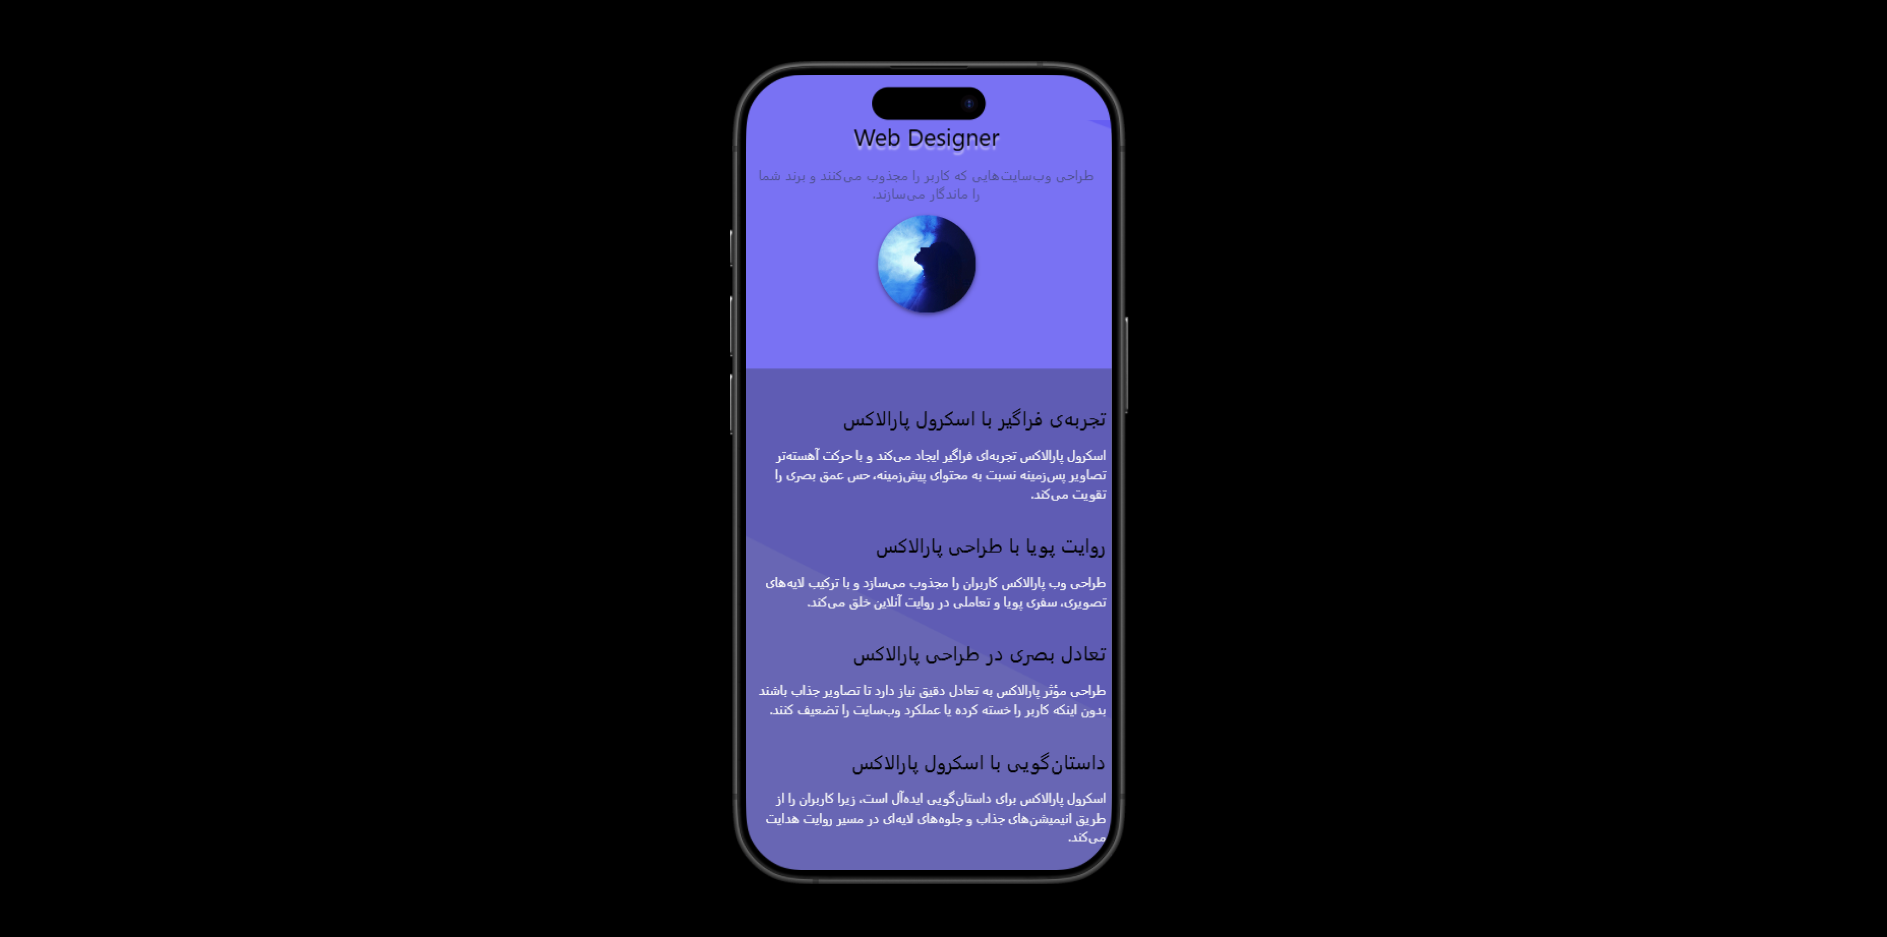
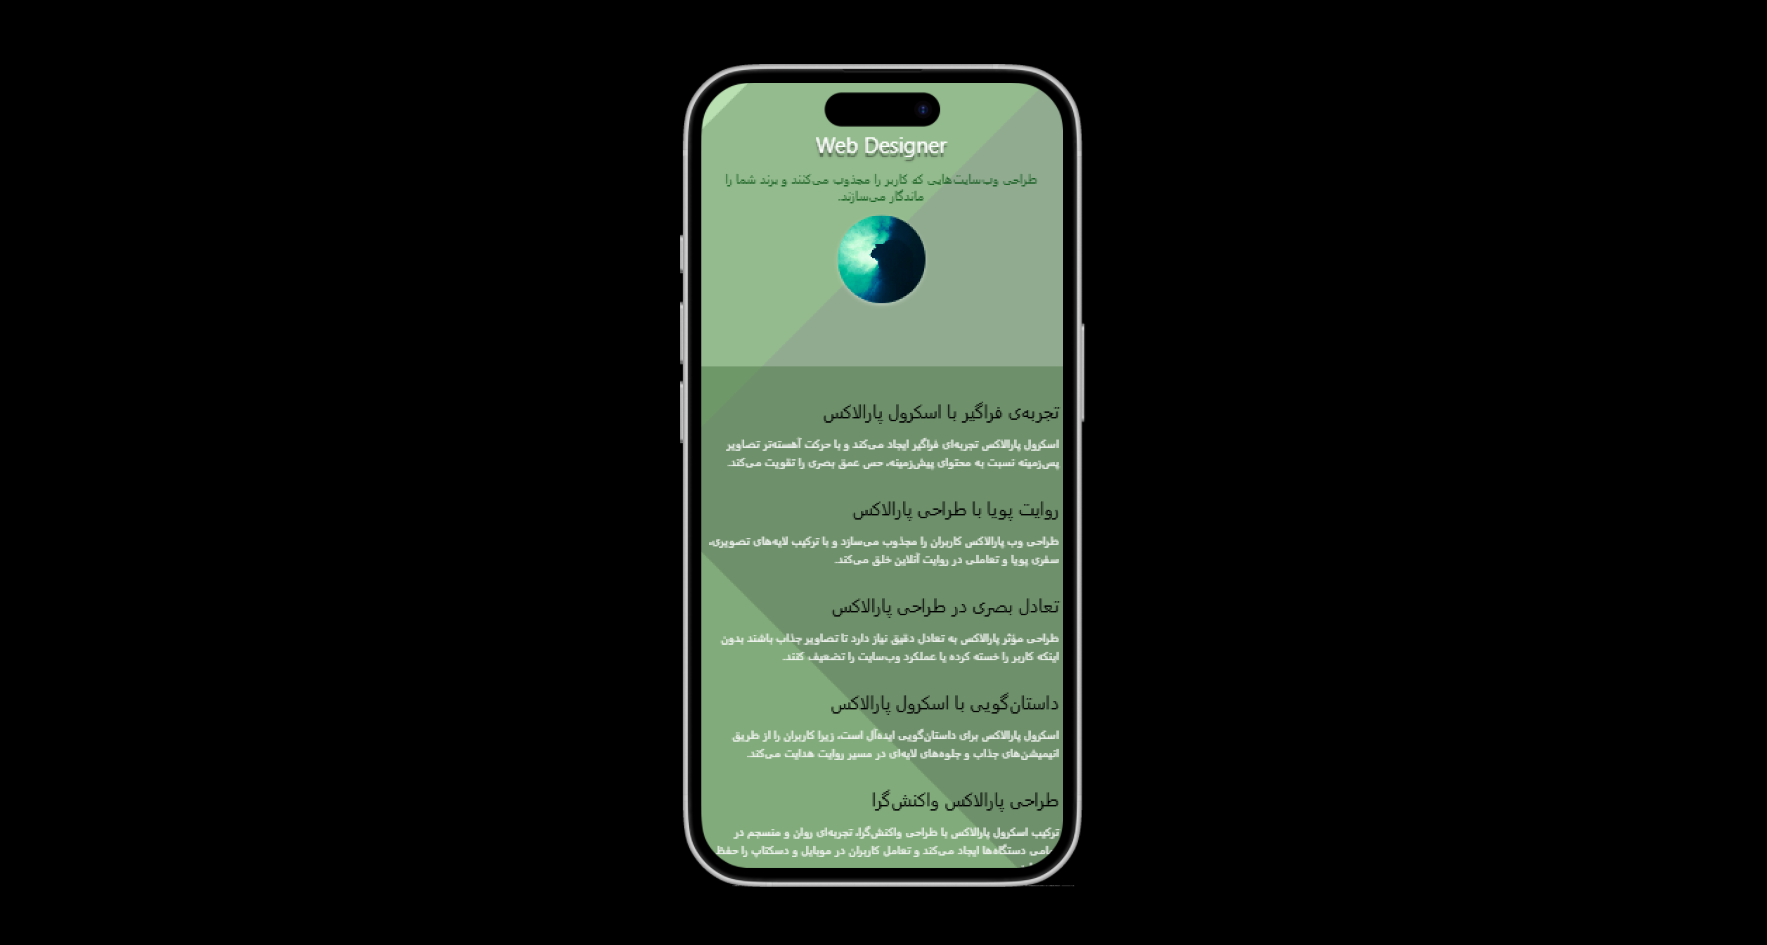
chanege phot and place for Paroller-js

Changed region(s): [[0.3735, 0.0619, 0.6225, 0.9594]]

diff --git a/index.html b/index.html
@@ -1966,58 +1966,7 @@
 
 
 
-          
-          <!-- Project  28 -->
-          <div
-            class="bg-white rounded-xl overflow-hidden shadow-lg card-hover animate-fade-in animate-delay-1"
-          >
-            <div class="h-48 overflow-hidden relative">
-              <img
-                src="پروژه ها/accordion slider/accordion slider.webp"
-                alt="navbar "
-                class="w-full h-full object-cover transition duration-500 hover:scale-110"
-              />
-              <div
-                class="absolute inset-0 bg-black opacity-0 hover:opacity-20 transition-opacity duration-300"
-              ></div>
-            </div>
-            <div class="p-6">
-              <h3 class="text-xl font-bold mb-2" id="project-1-title">
-                 تجربهای متفاوت از زیبایی و حرفهایگری در هر اسلاید. 
-              </h3>
-              <p class="text-gray-600 mb-4" id="project-1-desc">
-                  رابط کاربری روان، انتقال نرم بین اسلایدها و هماهنگی رنگها و انیمیشنها، حس یک محصول حرفهای و با کیفیت را القا میکند.
-              </p>
-              <div class="flex flex-wrap gap-2 mb-4">
-                <!-- <span class="bg-blue-100 text-blue-800 text-xs px-3 py-1 rounded-full">React</span> -->
-                <span
-                  class="bg-green-100 text-green-800 text-xs px-3 py-1 rounded-full"
-                  >CSS</span
-                >
-                <span
-                  class="bg-purple-100 text-purple-800 text-xs px-3 py-1 rounded-full"
-                  >html</span
-                >
-                <span class="bg-purple-100 text-white-800 text-xs px-3 py-1 rounded-full">JavaScript</span>
-                <span class="bg-purple-100 text-white-800 text-xs px-3 py-1 rounded-full">UI/UX</span>
-              </div>
-              <a
-                href="https://accordion-slider-rosy.vercel.app"
-                class="text-primary font-medium hover:underline flex items-center"
-                aria-label="مشاهده اسلاید شو جذاب و شیک"
-              >
-                مشاهده جزئیات
-                <i class="fas fa-arrow-left mr-2 text-sm"></i>
-              </a>
-            </div>
-          </div>
 
-
-
-
-
-          
-          
           <!-- Project  28 -->
           <div
             class="bg-white rounded-xl overflow-hidden shadow-lg card-hover animate-fade-in animate-delay-1"
@@ -2063,6 +2012,56 @@
               </a>
             </div>
           </div>
+
+
+
+          
+          <!-- Project  29 -->
+          <div
+            class="bg-white rounded-xl overflow-hidden shadow-lg card-hover animate-fade-in animate-delay-1"
+          >
+            <div class="h-48 overflow-hidden relative">
+              <img
+                src="پروژه ها/accordion slider/accordion slider.webp"
+                alt="navbar "
+                class="w-full h-full object-cover transition duration-500 hover:scale-110"
+              />
+              <div
+                class="absolute inset-0 bg-black opacity-0 hover:opacity-20 transition-opacity duration-300"
+              ></div>
+            </div>
+            <div class="p-6">
+              <h3 class="text-xl font-bold mb-2" id="project-1-title">
+                 تجربهای متفاوت از زیبایی و حرفهایگری در هر اسلاید. 
+              </h3>
+              <p class="text-gray-600 mb-4" id="project-1-desc">
+                  رابط کاربری روان، انتقال نرم بین اسلایدها و هماهنگی رنگها و انیمیشنها، حس یک محصول حرفهای و با کیفیت را القا میکند.
+              </p>
+              <div class="flex flex-wrap gap-2 mb-4">
+                <!-- <span class="bg-blue-100 text-blue-800 text-xs px-3 py-1 rounded-full">React</span> -->
+                <span
+                  class="bg-green-100 text-green-800 text-xs px-3 py-1 rounded-full"
+                  >CSS</span
+                >
+                <span
+                  class="bg-purple-100 text-purple-800 text-xs px-3 py-1 rounded-full"
+                  >html</span
+                >
+                <span class="bg-purple-100 text-white-800 text-xs px-3 py-1 rounded-full">JavaScript</span>
+                <span class="bg-purple-100 text-white-800 text-xs px-3 py-1 rounded-full">UI/UX</span>
+              </div>
+              <a
+                href="https://accordion-slider-rosy.vercel.app"
+                class="text-primary font-medium hover:underline flex items-center"
+                aria-label="مشاهده اسلاید شو جذاب و شیک"
+              >
+                مشاهده جزئیات
+                <i class="fas fa-arrow-left mr-2 text-sm"></i>
+              </a>
+            </div>
+          </div>
+
+
 
 
 
